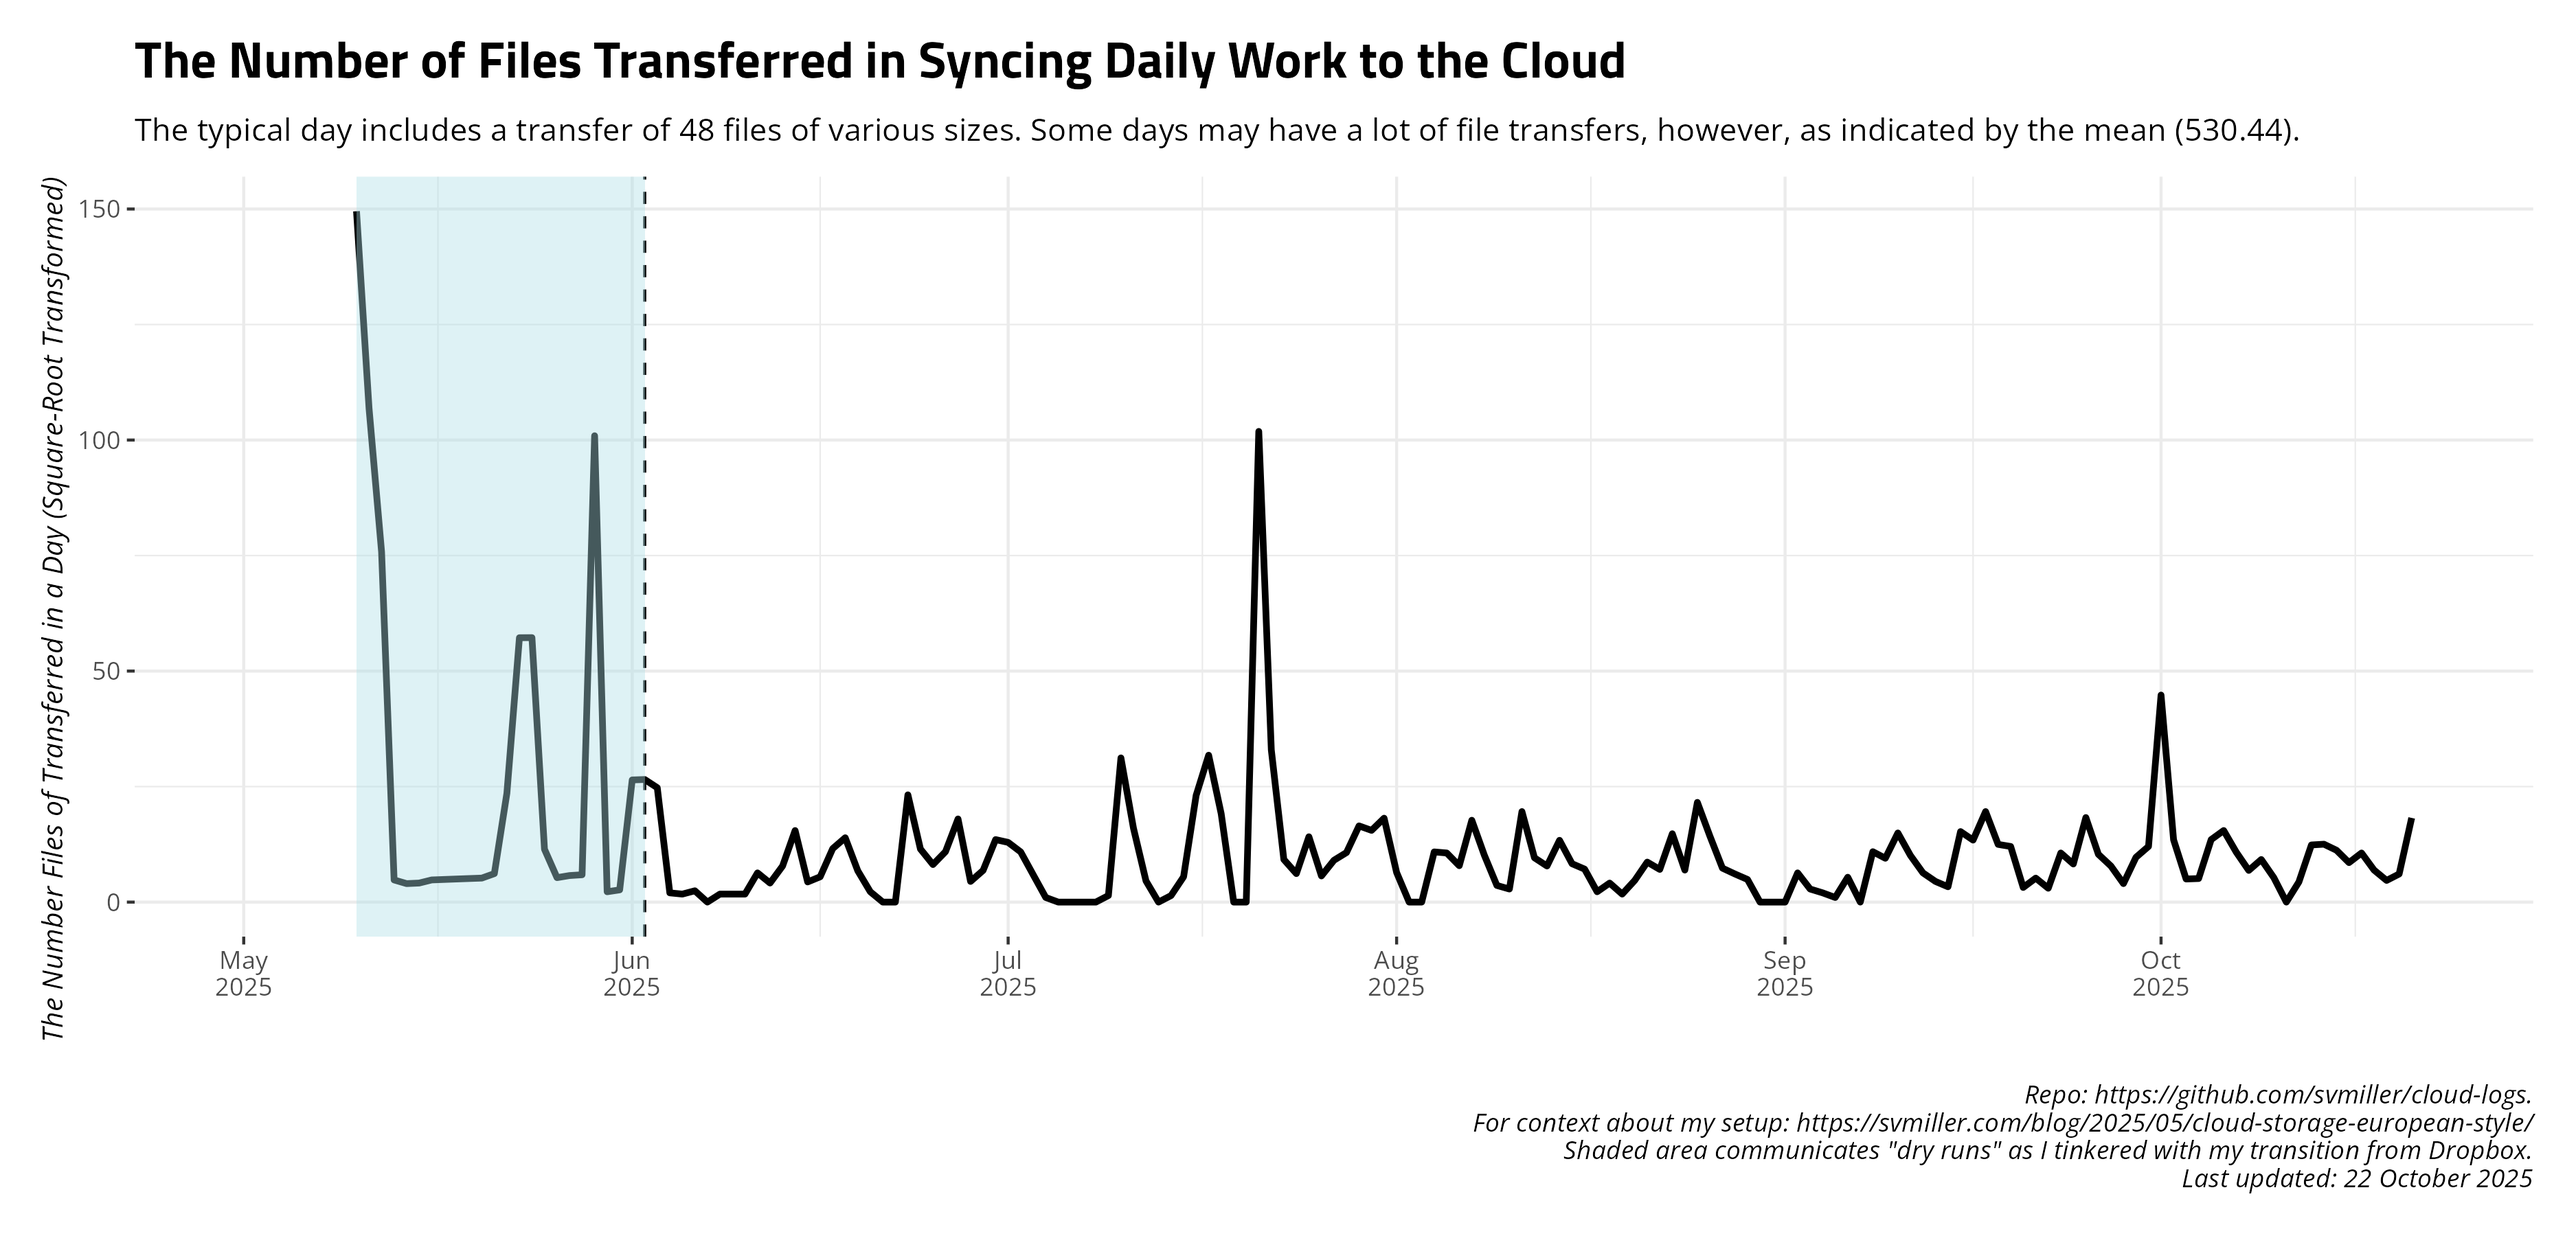
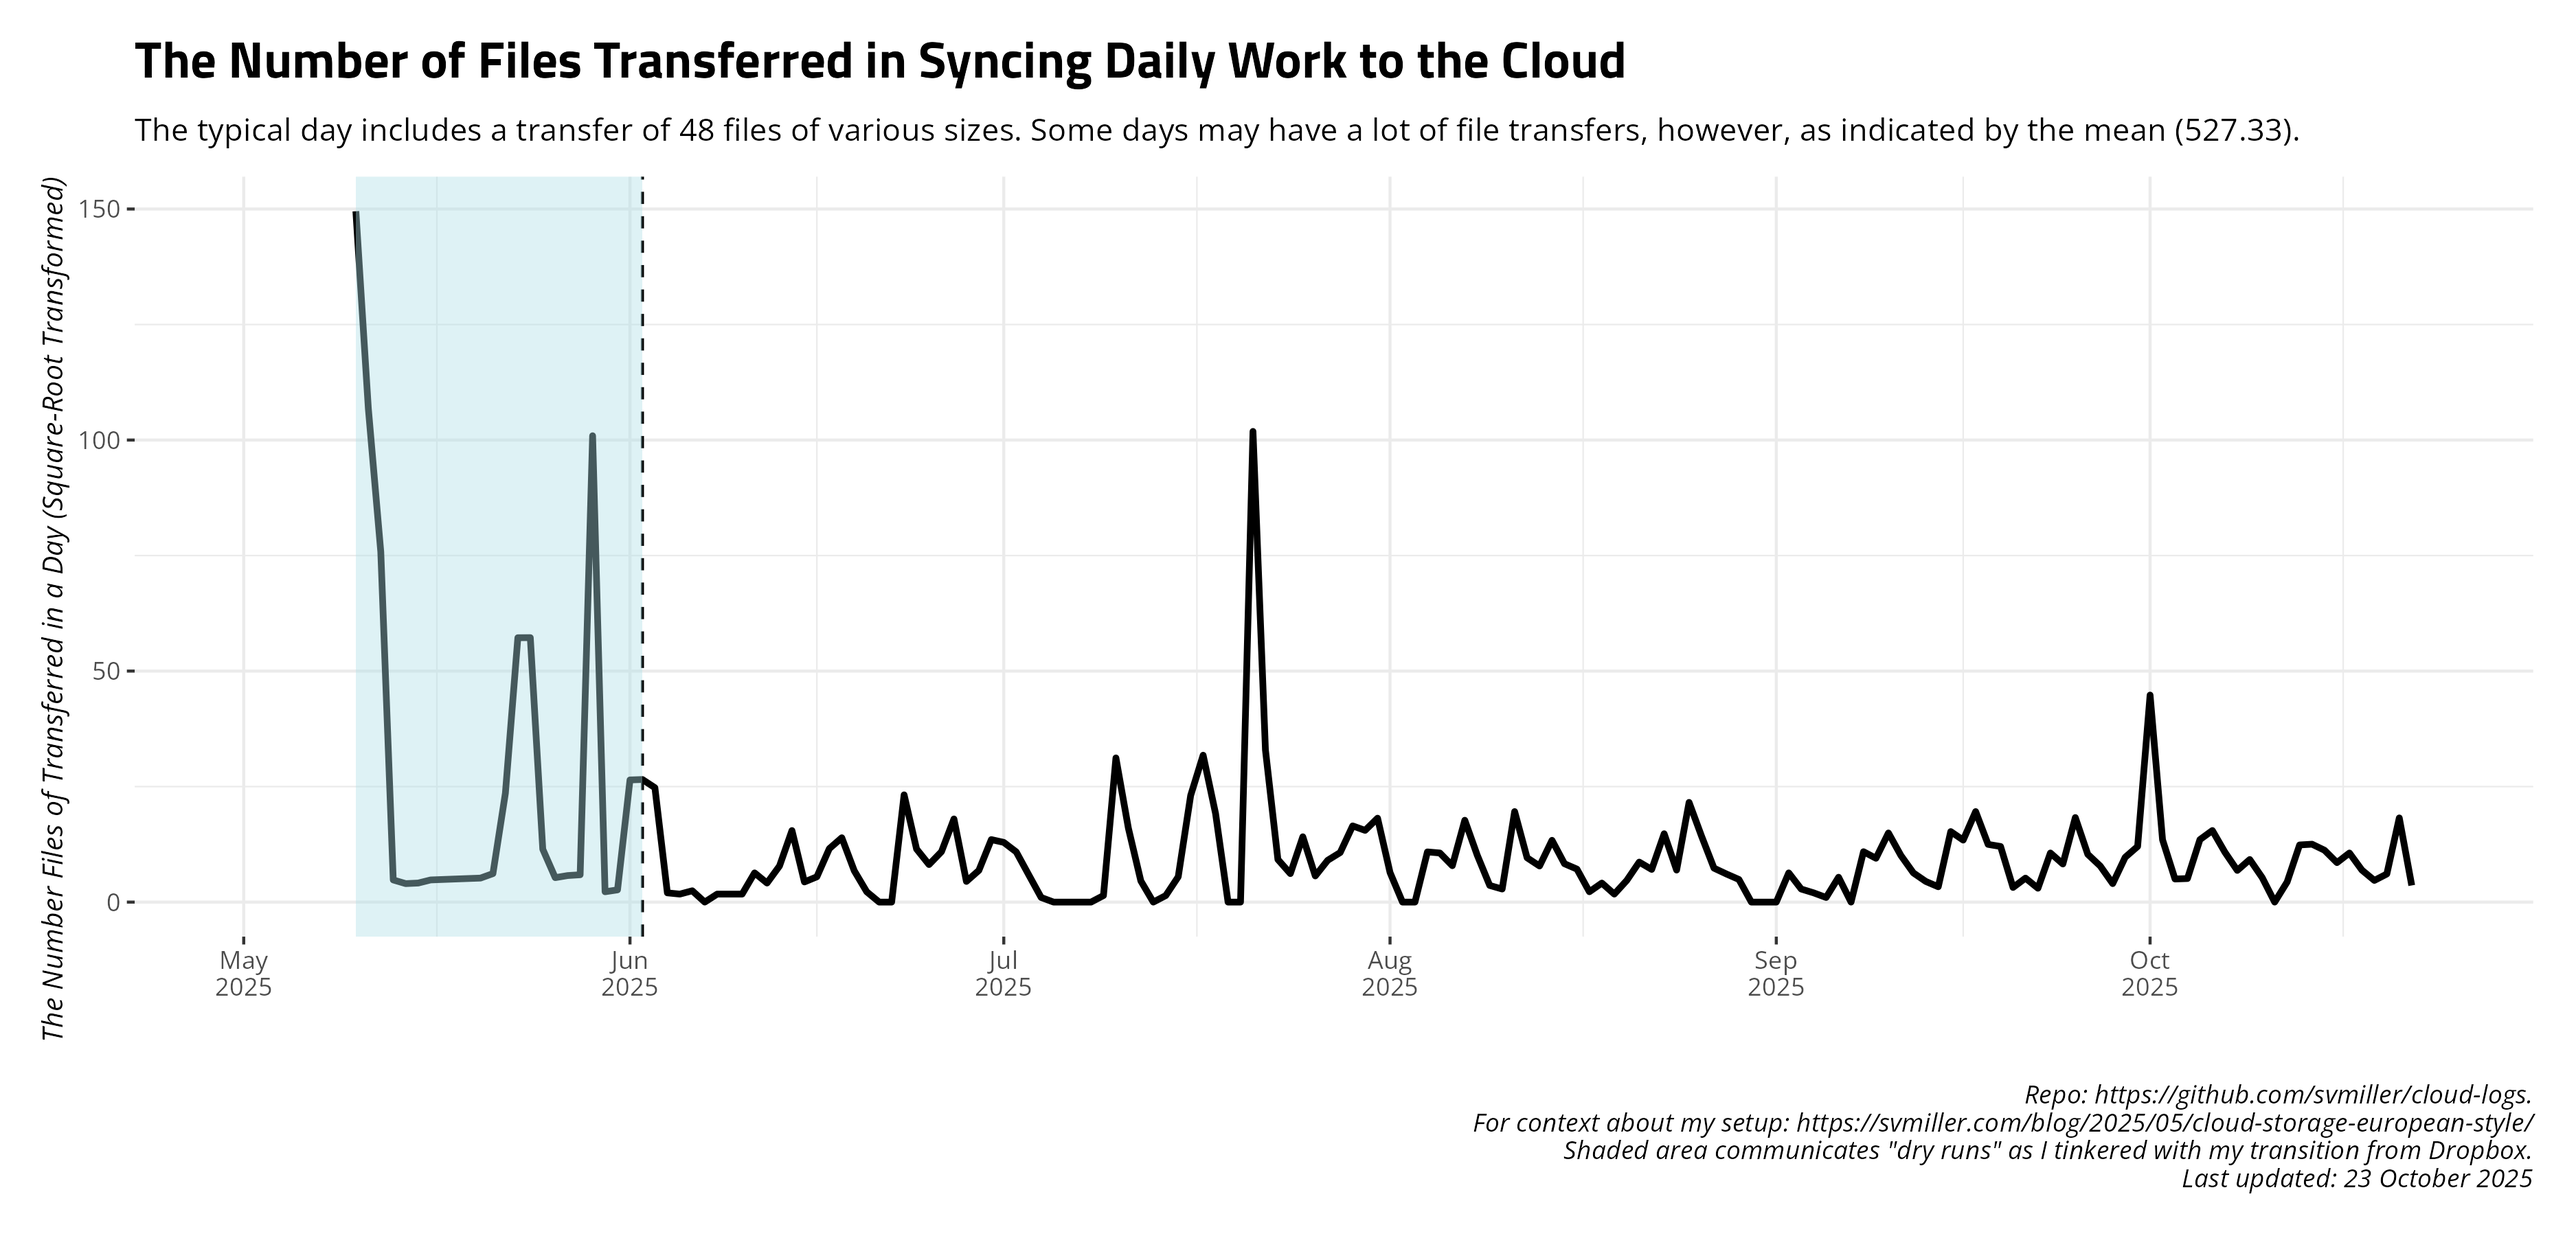
Date: 2025-10-23 09:00:14. Hi mom!

diff --git a/README.md b/README.md
@@ -27,17 +27,17 @@ and uploads to Github.
     #> # A tibble: 14 × 4
     #>    date       ftransfer stransfer   elapsed
     #>    <date>         <dbl> <chr>       <chr>  
-    #>  1 2025-10-08        47 591.214 KiB 5m20.9s
-    #>  2 2025-10-09        85 20.453 MiB  4m0.2s 
-    #>  3 2025-10-10        28 34.344 KiB  5m16.9s
-    #>  4 2025-10-11         0 <NA>        5m16.8s
-    #>  5 2025-10-12        19 111.027 KiB 4m24.8s
-    #>  6 2025-10-13       153 10.286 MiB  4m38.6s
-    #>  7 2025-10-14       157 6.146 MiB   4m43.3s
-    #>  8 2025-10-15       126 2.207 MiB   4m9.6s 
-    #>  9 2025-10-16        73 3.849 MiB   4m10.2s
-    #> 10 2025-10-17       113 3.125 MiB   4m52.3s
-    #> 11 2025-10-18        48 633.468 KiB 4m30.2s
-    #> 12 2025-10-19        22 67.056 KiB  4m43.2s
-    #> 13 2025-10-20        37 397.260 KiB 4m53.9s
-    #> 14 2025-10-21       332 55.643 MiB  4m15.2s
+    #>  1 2025-10-09        85 20.453 MiB  4m0.2s 
+    #>  2 2025-10-10        28 34.344 KiB  5m16.9s
+    #>  3 2025-10-11         0 <NA>        5m16.8s
+    #>  4 2025-10-12        19 111.027 KiB 4m24.8s
+    #>  5 2025-10-13       153 10.286 MiB  4m38.6s
+    #>  6 2025-10-14       157 6.146 MiB   4m43.3s
+    #>  7 2025-10-15       126 2.207 MiB   4m9.6s 
+    #>  8 2025-10-16        73 3.849 MiB   4m10.2s
+    #>  9 2025-10-17       113 3.125 MiB   4m52.3s
+    #> 10 2025-10-18        48 633.468 KiB 4m30.2s
+    #> 11 2025-10-19        22 67.056 KiB  4m43.2s
+    #> 12 2025-10-20        37 397.260 KiB 4m53.9s
+    #> 13 2025-10-21       332 55.643 MiB  4m15.2s
+    #> 14 2025-10-22        13 1.903 MiB   4m51.0s
